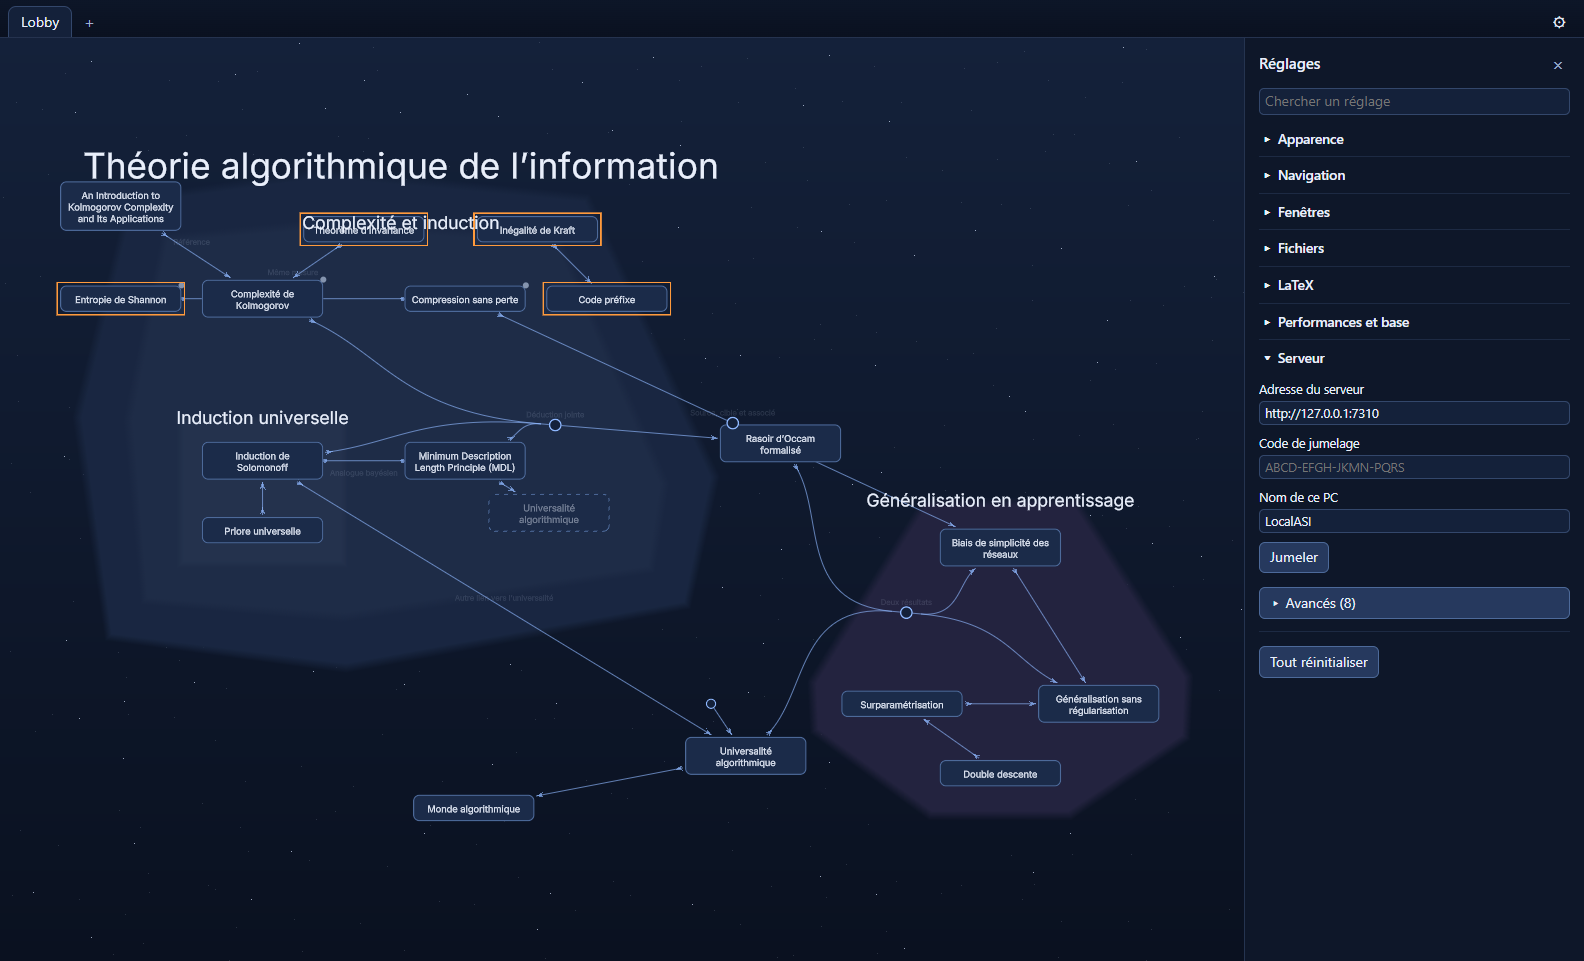
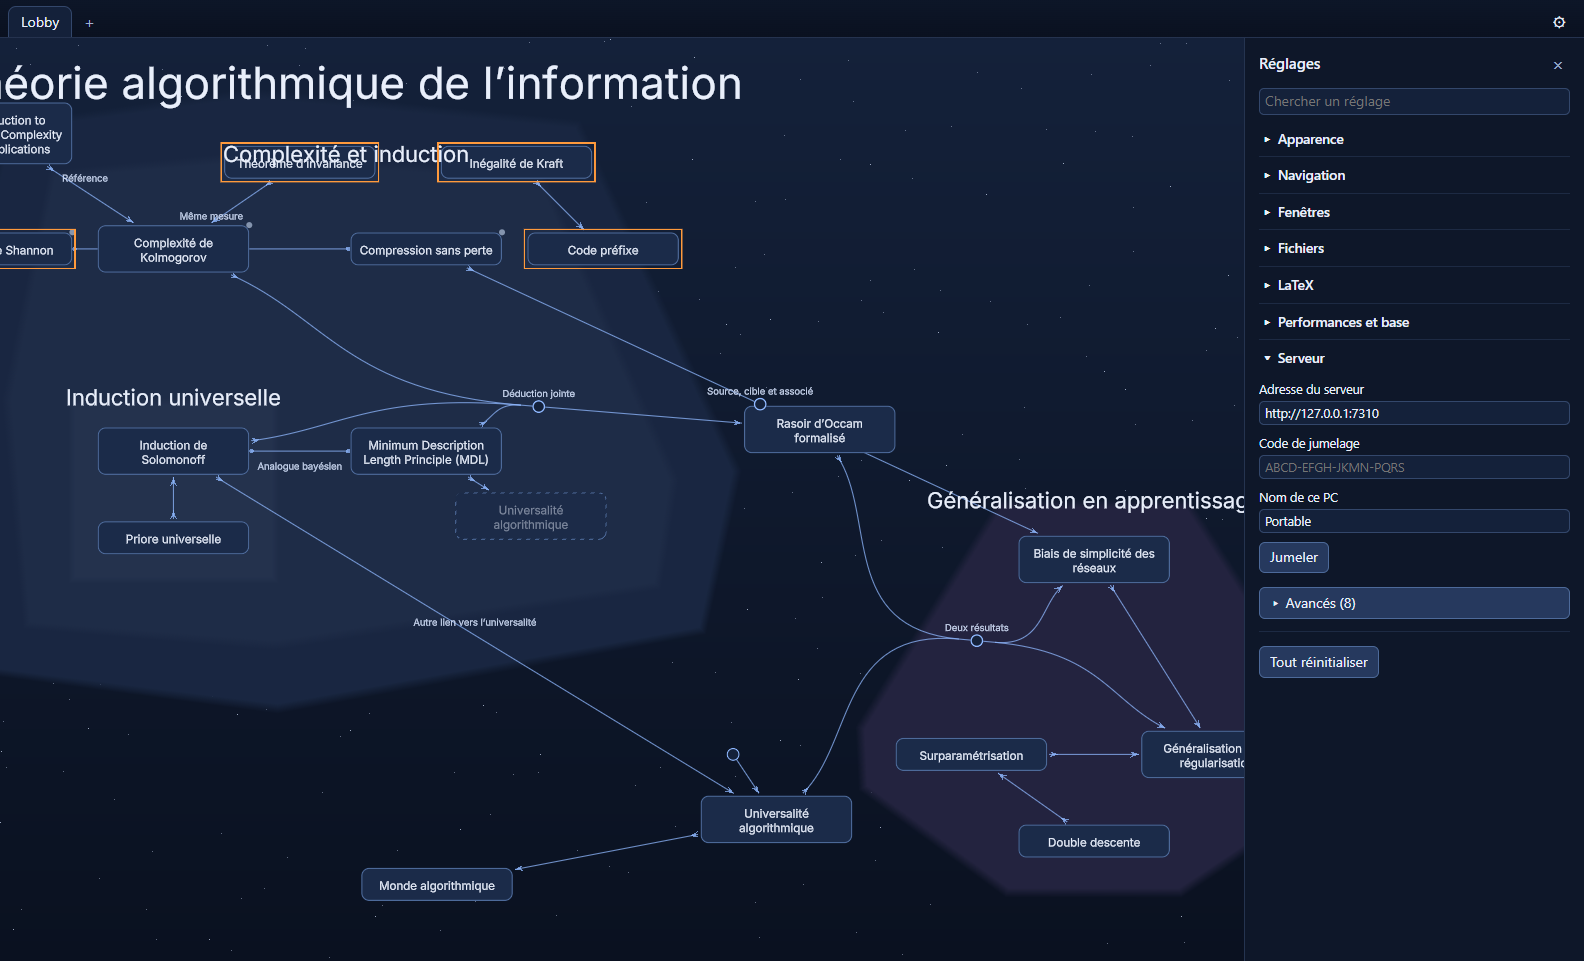
docs: plan 5a, recompilation au plan 5b, capture du bloc et scripts (revue de la tâche 7)
- R29 : la recompilation des résumés en arrière-plan après une synchro va au plan 5b (spec 13 et 24, registre)
- R30 : le bloc « Serveur » non jumelé se capture sous le nom « Portable », tapé par le script avant l'image (serverCaptures) ; la référence est refaite
- le voile n'est capturé qu'une fois la pastille « Hors ligne » ; une capture qui échoue garde le compte des images prises
- TITLE_PROBE doublé d'un contrôle à chaque image ; le premier scénario vérifie le code de sortie de A et de B
- spec : le PC coupe un libellé trop long, le serveur le refuse toujours ; registre : la latence jusqu'au rendu du pop-up, le p95 de la réconciliation
- scripts : DevToolsActivePort effacé par cdp.launch, closeSettings et typeInBlock partagés, quantile unique ; un échappement corrigé dans un test

diff --git a/packages/app/tests/firstSync.test.ts b/packages/app/tests/firstSync.test.ts
@@ -480,7 +480,7 @@ test('revue, Important 2 : une base prise qui attend est dite à l’ouverture (
 });
 
 test('R27 : CIRRUS_NO_RELAUNCH fait seulement quitter l’app après une prise, et seulement sur une base de test en arrière-plan ou en capture', () => {
-  const env = { CIRRUS_NO_RELAUNCH: '1', CIRRUS_DATA: 'D:\base-de-test' };
+  const env = { CIRRUS_NO_RELAUNCH: '1', CIRRUS_DATA: 'D:\\base-de-test' };
   expect(quitsInsteadOfRelaunch({ ...env, CIRRUS_BACKGROUND: '1' }, false)).toBe(true);
   expect(quitsInsteadOfRelaunch(env, true)).toBe(true);
   // Inert by default, on the user's own base, in a window in front, or for another value.

diff --git a/docs/superpowers/plans/2026-11-08-cirrus-synchro-registre.md b/docs/superpowers/plans/2026-11-08-cirrus-synchro-registre.md
@@ -735,9 +735,9 @@ Décisions du contrôleur pour cette tâche : R27 (la prise de base se joue dans
   4. le PC virtuel ajoute au nœud le chapitre PDF de la base de test : ses octets vont au serveur, son écriture à B, mais pas le PDF (absent du magasin de B 1,5 s après, sa vignette n'ayant rien téléchargé) ; un clic sur lui dans le pop-up le télécharge, le vérifie, le garde et l'affiche (le texte de sa première page).
 - **La variable de test `CIRRUS_NO_RELAUNCH`** (R27) : `quitsInsteadOfRelaunch(env, capture)` (`main/sync/firstSync.ts`), lue par `main/index.ts` seulement, change la relance d'une prise en fermeture. Elle n'agit que sur une base de test (`CIRRUS_DATA`) en arrière-plan ou en capture, comme `CIRRUS_BIB_PICK`, et le dit dans la console sinon. Testée dans `firstSync.test.ts`.
 - **Le minor reporté de la tâche 4** : après « Dissocier ce PC », le 26e scénario fait une vraie action (un nœud par le menu), l'écrit en attente dans la base, et vérifie que le serveur ne reçoit rien en 2 s.
-- **`scripts/serveur-local.mjs`**, nouveau : le serveur de la machine des scripts (`localServer`, avec `stop` et `restart` sur le même port), `pairingCode`, le PC virtuel (`virtualPc`), et la conduite du bloc (`pairThrough`, `openServerBlock`, `serverField`, `chipSays`, `TITLE_PROBE`), partagés par les scénarios, les captures et les mesures. `cdp.mjs` gagne `exited`, `quit()` (fermer la fenêtre, comme l'utilisateur) et `screenshot()`, et une requête à une app partie reçoit une erreur au lieu d'attendre.
+- **`scripts/serveur-local.mjs`**, nouveau : le serveur de la machine des scripts (`localServer`, avec `stop` et `restart` sur le même port), `pairingCode`, le PC virtuel (`virtualPc`), et la conduite du bloc (`pairThrough`, `openServerBlock`, `closeSettings`, `typeInBlock`, `serverField`, `chipSays`, `TITLE_PROBE`), partagés par les scénarios, les captures et les mesures. `cdp.mjs` gagne `exited`, `quit()` (fermer la fenêtre, comme l'utilisateur), `screenshot()` et `quantile` (les deux scripts de mesures). Une requête à une app partie y reçoit une erreur au lieu d'attendre, et chaque lancement efface d'abord le `DevToolsActivePort` qu'un lancement précédent sur le même profil a laissé (revue de la tâche 7, Minor 8).
 - **Les mesures** (`scripts/mesures-synchro.mjs`, étendu ; `npm run mesures -w packages/app -- synchro [tout|latence|reconciliation|acceptation|premier|journal]`) : la latence, la réconciliation et l'acceptation (tâche 7) ; « premier » refait celles de la tâche 5.
-- **Les captures** (`docs/captures/plan5a/`) : `serveur-non-jumele` (une scène du mode capture), puis `serveur-jumele`, `pastille-hors-ligne` et `voile-synchronisation` (R28, `pairedCaptures` de `captures.mjs`). L'adresse du serveur, dans le bloc jumelé, est `volatile`.
+- **Les captures** (`docs/captures/plan5a/`) : `serveur-non-jumele` (sous le nom « Portable », R30), puis `serveur-jumele`, `pastille-hors-ligne` et `voile-synchronisation` (R28), toutes par `serverCaptures` de `captures.mjs`. L'adresse du serveur, dans le bloc jumelé, est `volatile`.
 - **La spec** : sections 4, 6 (6.1, 6.2, 6.5, et 6.6 « Fixé par le plan 5a »), 12, 18, 18.1, 19, 20, 21, 23 et 24.
 
 ### Mesures
@@ -745,13 +745,13 @@ Décisions du contrôleur pour cette tâche : R27 (la prise de base se joue dans
 Sur ce PC (la machine chargée par le travail de l'utilisateur), trois passes chacune, Node 26.13, Electron 45 en arrière-plan. Commande : `npm run mesures -w packages/app -- synchro` (ou `latence`, `reconciliation`, `acceptation`). Quantiles : la valeur sous laquelle tombe la part demandée des valeurs triées, comme pour le plan 4c.
 
 - **Du `commit` sur un PC virtuel à l'action appliquée dans l'app B** (critère : p95 sous 200 ms) — **tenu** :
-  - méthode : à chaque passe, un serveur neuf dans son propre processus, l'app B neuve jumelée par son bloc, et un PC virtuel dans le processus du script. Le PC virtuel crée un nœud à l'origine du monde, dont B ouvre le pop-up par un clic. Puis 50 renommages, l'un après l'autre, 100 ms entre la fin de l'un et le suivant. Le temps de départ est pris juste avant le `commit` du PC virtuel ; le temps d'arrivée est lu par la page elle-même, un observateur du DOM notant l'instant où le titre du pop-up montre le nouveau titre (React l'a rendu). Les deux horloges (`performance.timeOrigin + performance.now()`, au script et dans la page) sont alignées par l'aller-retour de DevTools le plus court, sur 30 : 0,4 à 0,5 ms d'aller-retour, 0,9 à 1,1 ms d'écart ;
+  - méthode : à chaque passe, un serveur neuf dans son propre processus, l'app B neuve jumelée par son bloc, et un PC virtuel dans le processus du script. Le PC virtuel crée un nœud à l'origine du monde, dont B ouvre le pop-up par un clic. Puis 50 renommages, l'un après l'autre, 100 ms entre la fin de l'un et le suivant. Le temps de départ est pris juste avant le `commit` du PC virtuel ; le temps d'arrivée est lu par la page elle-même, un observateur du DOM notant l'instant où le titre du pop-up montre le nouveau titre (React l'a rendu). Il est exact parce que le pop-up refait le champ du titre quand le titre change ; un contrôle à chaque image le double, qui verrait le titre une image plus tard au plus si ce champ gardait un jour son élément (revue de la tâche 7, Minor 2). Les deux horloges (`performance.timeOrigin + performance.now()`, au script et dans la page) sont alignées par l'aller-retour de DevTools le plus court, sur 30 : 0,4 à 0,5 ms d'aller-retour, 0,9 à 1,1 ms d'écart ;
   - passe 1 : médiane 62,9 ms, p95 64,4 ms (59,2 à 64,8) ; passe 2 : 62,8 et 64,9 ms (60,9 à 65,8) ; passe 3 : 63,1 et 64,4 ms (61,6 à 66,0) ;
-  - les 150 : **médiane 62,9 ms, p95 64,7 ms**, 66,0 ms au plus. La fenêtre de réception, `syncReceiveBatchMs` (50 ms), en fait l'essentiel : le reste, environ 13 ms, couvre l'envoi, l'acceptation, le relais, l'aller-retour de la réconciliation entre le principal et l'interface, l'écriture de la base et le rendu.
+  - les 150 : **médiane 62,9 ms, p95 64,7 ms**, 66,0 ms au plus. La fenêtre de réception, `syncReceiveBatchMs` (50 ms), en fait l'essentiel : le reste, environ 13 ms, couvre l'envoi, l'acceptation, le relais, l'aller-retour de la réconciliation entre le principal et l'interface, son écriture dans la base (qui précède le rendu : `EditSession.reconcile` attend l'écriture avant de prévenir la scène et React), et le rendu du pop-up par React. L'image du graphe, dessinée en WebGL, n'est pas comptée (revue de la tâche 7, Minor 4).
 - **La réconciliation de 10 écritures en attente contre 100 reçues** (critère : sous 50 ms) — **tenu** :
   - méthode : un processus par passe, sur une copie neuve de la base de référence (50 000 nœuds, chargée de son instantané en 0,32 à 0,37 s), puis sur une base de 600 nœuds faite par la passe, ses lignes numérotées comme celles d'un serveur. Six tours par passe : 10 renommages faits ici, en attente, contre 100 écritures reçues d'un autre PC, construites sur l'état sans les écritures en attente et plus anciennes qu'elles. Sur les 100, 5 renomment les mêmes nœuds (le même champ : le plus récent, ici, gagne), 5 changent leur résumé (un autre champ : les deux restent), 90 renomment d'autres nœuds. Chaque tour défait les 10, en rejoue 10. Sont chronométrés `reconcile` du cœur sur l'état, puis `applyReconciliation` de la base (une transaction, chaque « avant » vérifié). Les écritures rejouées sont ensuite accusées, sans chronomètre. Le premier tour est à froid (le code pas encore compilé), les cinq autres à chaud ;
-  - base de référence : à froid 5,7, 5,2 et 5,2 ms (dont `reconcile` 2,5 à 2,8 ms, l'écriture 2,7 à 2,9 ms) ; à chaud, **médiane 3,3, 3,5 et 3,6 ms** (`reconcile` 0,7 ms, l'écriture 2,6 à 2,9 ms), 4,2 ms au plus ;
-  - base de 600 nœuds : à froid 7,8, 7,3 et 7,8 ms ; à chaud, médiane 3,6, 4,5 et 3,7 ms, 5,3 ms au plus ;
+  - base de référence : à froid 5,7, 5,2 et 5,2 ms (dont `reconcile` 2,5 à 2,8 ms, l'écriture 2,7 à 2,9 ms) ; à chaud, **médiane 3,3, 3,5 et 3,6 ms** (`reconcile` 0,7 ms, l'écriture 2,6 à 2,9 ms), **p95 3,7, 3,7 et 4,2 ms** ; sur cinq tours à chaud par passe, le p95 est le plus grand d'entre eux (revue de la tâche 7, Minor 5) ;
+  - base de 600 nœuds : à froid 7,8, 7,3 et 7,8 ms ; à chaud, médiane 3,6, 4,5 et 3,7 ms, p95 (le plus grand) 5,2, 5,2 et 5,3 ms ;
   - le coût ne suit pas la taille de la base, comme le demandent les Global Constraints. Le rendu de la scène qui suit, dans l'interface, n'est pas compté ici : c'est la mise à jour incrémentale d'une action, mesurée au plan 3c.
 - **L'acceptation d'une action au serveur, sur la base de référence** (critère : médiane sous 10 ms) — **tenu** :
   - méthode : la base de référence envoyée à un serveur vide (20,98 s), le serveur arrêté puis relancé sur elle (0,40 s), comme après un redémarrage. Un troisième PC, jumelé comme l'app (`pair`), ouvre son flux, puis envoie 50 actions par passe, une par une : un renommage d'un nœud de la base de référence, son « avant » tel que la base l'a. Chronométré de la requête `POST /units` à sa réponse lue : `parseUnit`, `applyOps` sur l'état de 50 000 nœuds, `addedViolation`, l'écriture synchronisée sur le disque, le relais au flux ouvert, et HTTP sur la machine. C'est donc une borne haute de l'acceptation ;
@@ -783,8 +783,22 @@ Sur ce PC (la machine chargée par le travail de l'utilisateur), trois passes ch
   - Coût si faux : nul.
 - Ruling: **le voile se capture au redémarrage d'une base jumelée dont le serveur est arrêté**, `syncConnectTimeoutMs` porté à 60 s (son maximum) dans les réglages de la base de test, écrits pendant que l'app est fermée : sans cela, il pourrait se lever avant l'image. Sous le voile, la pastille dit déjà « Hors ligne » : c'est ce que l'utilisateur verrait.
   - Coût si faux : nul.
-- Ruling: **le bloc non jumelé est une scène ordinaire du mode capture** (le bandeau ouvert, la rubrique « Serveur » dépliée). Son champ « Nom de ce PC » montre le nom de la machine : la référence est celle de ce PC, comme les polices.
-  - Coût si faux : la capture diffère sur un autre PC ; les autres références aussi, pour d'autres raisons.
+- Ruling: **R30, mis en œuvre : le bloc non jumelé se capture sous un nom fixe** (revue de la tâche 7, Important 2). Le champ « Nom de ce PC » propose le nom de la machine, qui ferait dépendre la référence du PC qui la prend. Le script de capture y tape « Portable », par une vraie saisie (Ctrl+A, puis le texte), avant l'image ; le code de l'app ne change pas. Le mode capture ne sait ni donner le focus à un champ ni en sélectionner le texte (`CIRRUS_CLICK` appelle `click()`, et `type:` ajoute au texte) : la scène passe donc par DevTools, en tête de `serverCaptures`, avant le jumelage, sur la même base et dans la même fenêtre que les trois autres.
+  - Options : apprendre au mode capture à sélectionner un champ (un changement de l'app pour les captures seules).
+  - Coût si faux : une capture refaite.
 - Ruling: **`npm run mesures -- synchro …` lance `mesures-synchro.mjs`** dans son propre processus (avec `--expose-gc`), depuis `mesures-annotations.mjs`. Sans argument, `npm run mesures` reste celui du plan 4c, que la base de référence n'est pas nécessaire pour lancer.
   - Coût si faux : un mot de plus à taper.
-- Ruling: **la recompilation des résumés en arrière-plan après une synchro** (spec 13, « Hors du plan 4b ») n'est ni au plan 5a ni dans la liste du plan 5b. La spec la laisse telle quelle ; c'est au contrôleur de la placer.
+- Ruling: **R29, la recompilation des résumés compilés en arrière-plan après une synchro va au plan 5b** (spec 13, « Pas de compilation inutile » et « Hors du plan 4b » ; spec 24, la liste du plan 5b). Le périmètre du plan 5a était fixé à son approbation, et le plan 5b tient déjà ce qui touche LaTeX dans la synchro (« .tex ouvert ailleurs », la vue des différences d'un `.tex` en conflit).
+  - Coût si faux : jusqu'au plan 5b, un nœud changé sur un autre PC se compile à son ouverture, comme aujourd'hui.
+
+### Correctifs de la revue (tâche 7, tour 1)
+
+Décisions du contrôleur : R29 (la recompilation des résumés en arrière-plan après une synchro va au plan 5b) et R30 (la capture du bloc non jumelé ne dépend pas du nom de la machine), plus haut dans les règles qu'elles remplacent.
+
+- **R29** : la spec la range au plan 5b (section 24), le dit à la section 13 (« Pas de compilation inutile » et « Hors du plan 4b »), et dit ce qui se passe d'ici là.
+- **R30** : `serveur-non-jumele` est refaite sous le nom « Portable », par `serverCaptures`, avant le jumelage ; les trois autres images de `plan5a` restent au pixel près.
+- **Le voile** n'est capturé qu'une fois que sa pastille dit « Hors ligne » (Minor 1).
+- **`TITLE_PROBE`** dit sur quoi il compte (le champ du titre refait à chaque titre), et un contrôle à chaque image le double (Minor 2). Les mesures n'en changent pas : l'observateur du DOM voit le titre le premier, comme avant.
+- **La spec** nomme celui qui coupe un libellé trop long, le PC, et dit que le serveur refuse toujours un libellé trop long qu'il reçoit (Minor 3).
+- **Les mesures** : la latence dit qu'elle s'arrête au rendu du pop-up, l'image du graphe non comptée, et que l'écriture de la base le précède (Minor 4) ; la réconciliation donne son p95, le plus grand des cinq tours à chaud (Minor 5).
+- **Les scripts** : une capture qui échoue garde le compte des images déjà prises (Minor 6) ; le premier scénario vérifie que A et B quittent avec le code 0 (Minor 7) ; `DevToolsActivePort` est effacé par `cdp.launch`, `closeSettings` et `typeInBlock` sont dans `serveur-local.mjs`, et `quantile` dans `cdp.mjs` (Minor 8) ; le test de `quitsInsteadOfRelaunch` n'a plus de `\b` dans son chemin (Minor 9).

diff --git a/2026-11-02-cirrus-design.md b/2026-11-02-cirrus-design.md
@@ -291,7 +291,7 @@ L'outil de version est sans commit ni push, ce qui remplace la spécification.
   - **PC plein, serveur vide :** « Envoyer la base de ce PC au serveur (n nœuds, m fichiers) ».
     - Le PC lit et vérifie d'abord tout ce qu'il enverra, avant toute requête : une ligne abîmée l'arrête là, dite en français [C].
     - Il envoie ensuite tous les fichiers de son magasin, son instantané, son journal par pages (pour l'historique), et enfin `done`, qui rend le serveur non vide. Ses lignes reçoivent leurs numéros, et la synchro démarre.
-    - Le serveur vérifie la structure de ce qu'il reçoit, mais ne refuse pas une violation que la base portait déjà : il la compte et la signale [C]. Un libellé trop long est coupé, jamais refusé [C].
+    - Le serveur vérifie la structure de ce qu'il reçoit, mais ne refuse pas une violation que la base portait déjà : il la compte et la signale [C]. Le PC coupe un libellé trop long avant l'envoi, qui n'est donc jamais bloqué par lui ; le serveur refuse toujours un libellé trop long qu'il reçoit [C].
   - **PC vide, serveur plein :** « Prendre la base du serveur (n nœuds) ». Un serveur qui ne tient que le lobby d'un autre PC compte comme plein : le PC le prend, plutôt que d'apporter un second lobby [C].
     - Le PC télécharge l'instantané, le journal et les fichiers autres que les PDF dans un dossier neuf, `<base>-nouvelle`, avec les réglages du serveur et son propre identifiant de PC. Une marque, écrite en dernier, le dit complet [C].
     - L'app redémarre, et l'échange se fait avant que la base s'ouvre. L'ancienne base est gardée sous `base-avant-jumelage-AAAA-MM-JJ` (« (2) » si le nom est pris). Un renommage refusé un moment, par un antivirus, est retenté ; s'il échoue encore, l'ancienne base s'ouvre, et la base prise attend le démarrage suivant, ce que disent une notification et le bloc « Serveur » [C].
@@ -306,7 +306,7 @@ L'outil de version est sans commit ni push, ce qui remplace la spécification.
   - **sans serveur jumelé,** rien ne change : l'app fonctionne seule, et ses actions restent en attente, sans effet. « Dissocier ce PC » ramène à cet état : les actions faites ensuite restent sur ce PC.
 - **Mesures** (tâche 7, sur ce PC, trois passes chacune, `npm run mesures -w packages/app -- synchro` ; le registre du plan donne la méthode) :
   - d'une écriture sur un PC virtuel au nouveau titre montré par une app jumelée, sur 50 renommages : 62,9 ms en médiane, 64,7 ms au p95 et 66 ms au plus. Le critère, un p95 sous 200 ms, est tenu. La fenêtre de réception (`syncReceiveBatchMs`, 50 ms) en fait l'essentiel ;
-  - 10 écritures en attente réconciliées avec 100 reçues, sur la base de référence (50 000 nœuds) : 3,3 à 3,6 ms en médiane, 5,2 à 5,7 ms pour la première d'une session ; sur une base de 600 nœuds, 3,6 à 4,5 ms et 7,3 à 7,8 ms. Le critère, 50 ms, est tenu, et le coût ne suit pas la taille de la base ;
+  - 10 écritures en attente réconciliées avec 100 reçues, sur la base de référence (50 000 nœuds) : 3,3 à 3,6 ms en médiane et 4,2 ms au plus, ce qui borne le p95, puis 5,2 à 5,7 ms pour la première d'une session ; sur une base de 600 nœuds, 3,6 à 4,5 ms et 7,3 à 7,8 ms. Le critère, 50 ms, est tenu, et le coût ne suit pas la taille de la base ;
   - une action acceptée par le serveur qui tient la base de référence : 1,9 ms en médiane et 5 ms au p95, la requête HTTP comprise. Le critère, une médiane sous 10 ms, est tenu. La première action après le démarrage du serveur a pris 0,3 s ;
   - envoyer la base de référence au serveur prend 20,5 s (21 s à la tâche 7), et la prendre 21,6 s, presque tout dans l'écriture en bloc des tables, une fois par PC. Le serveur qui la tient occupe 293 Mo une fois redémarré sur elle (en 0,4 s), et 492 Mo juste après l'envoi (tâche 5).
 - **Hors du plan 5a :** section 24.
@@ -669,7 +669,7 @@ Une amorce apparaît quand une branche de ce plan vise un nœud absent du plan :
 - **Erreur :** le dernier PDF valide reste affiché, avec le journal à côté.
 - **Sécurité :** aucune commande du document n'est exécutée (`\write18` est refusé). Un paquet comme `minted`, qui en a besoin, ne fonctionnera pas. Pour le document, TeX n'écrit que dans son dossier de travail, mais peut tout lire. Les outils de polices de TeX Live peuvent écrire dans TinyTeX (D4, plus bas).
 - **Exigence explicite : temps de compilation minimaux.**
-  - **Pas de compilation inutile :** chaque PDF est retrouvé par une empreinte de son contenu, du préambule et des titres cités. Après une synchro, les nœuds modifiés se recompilent en arrière-plan, donc ouvrir un nœud ne compile presque jamais.
+  - **Pas de compilation inutile :** chaque PDF est retrouvé par une empreinte de son contenu, du préambule et des titres cités. Après une synchro, les nœuds modifiés se recompileront en arrière-plan (plan 5b), donc ouvrir un nœud ne compilera presque jamais. D'ici là, un nœud changé sur un autre PC se compile à son ouverture, comme un nœud qu'on vient de modifier.
   - **Préambule chargé d'avance :** un processus pdfLaTeX est lancé à l'avance et attend après le préambule, puis reçoit le nœud. C'est la technique de TeX-fast-recompile, qui fonctionne avec tous les paquets. `mylatexformat` (2011) ne sert qu'en complément si les mesures le justifient.
   - **Une seule passe :** les liens vers d'autres nœuds sont fournis par l'app. Une seconde passe n'a lieu que si les références internes au nœud ont changé.
   - **Pendant la frappe :** toute modification interrompt la compilation en cours et en relance une après une courte pause (`latexTypingPauseMs`, 300 ms).
@@ -730,7 +730,7 @@ Une amorce apparaît quand une branche de ce plan vise un nœud absent du plan :
   - la cible de 300 ms est tenue au p95, mais pas à chaque frappe : une frappe du .tex sur 69 l'a dépassée (329 ms), et une autre, avec un repos de 0,8 s, a pris 306 ms. L'image suivante vient de 1 à 13 ms après le canevas (environ 4 ms en médiane) : pour le .tex, elle donne 291 ms au p95 et 331 ms au plus ;
   - la compilation, dans le principal, en prend environ les trois quarts (de 118 à 208 ms selon la frappe pour le résumé, de 131 à 239 ms pour le .tex). pdf.js, de la première réponse du PDF au canevas, prend de 25 à 56 ms pour le résumé, et de 41 à 95 ms pour le .tex. L'IPC, le rendu de React et la première réponse du PDF prennent environ 5 ms (de 4 à 8) ;
   - un pop-up rouvert dans la session, son résumé en cache : 17 ms. Le premier résumé d'une session : 0,49 s en cache, 0,62 s s'il faut compiler, dont 0,45 s pour charger pdf.js et son travailleur. Les charger d'avance, au repos, serait le levier suivant.
-- **Hors du plan 4b :** la recompilation en arrière-plan après une synchro (plan 5) ; le saut vers la cible avec « précédent » et « suivant », et l'aperçu au survol d'un lien (plan 6) ; la liste des doublons et des liens cassés dans la santé du graphe ; l'assemblage des documents (section 15) ; SyncTeX ; l'installation de TinyTeX hors de Windows, où `CIRRUS_TINYTEX` désigne une TinyTeX existante.
+- **Hors du plan 4b :** la recompilation en arrière-plan après une synchro (plan 5b) ; le saut vers la cible avec « précédent » et « suivant », et l'aperçu au survol d'un lien (plan 6) ; la liste des doublons et des liens cassés dans la santé du graphe ; l'assemblage des documents (section 15) ; SyncTeX ; l'installation de TinyTeX hors de Windows, où `CIRRUS_TINYTEX` désigne une TinyTeX existante.
 
 ## 14. Navigation et recherche
 
@@ -1061,6 +1061,7 @@ Le découpage détaillé relève du plan d'implémentation.
   - partage.
 
 **Hors du plan 5a, au plan 5b :**
+- la recompilation en arrière-plan des résumés compilés après une synchro (section 13) ;
 - les publications récupérées par le serveur (section 12) ;
 - l'import par l'adresse du PDF de n'importe quel site (OpenReview, PMLR, actes de NeurIPS…), avec les gardes contre les adresses internes ;
 - le DOI lu dans l'adresse d'un éditeur ;
